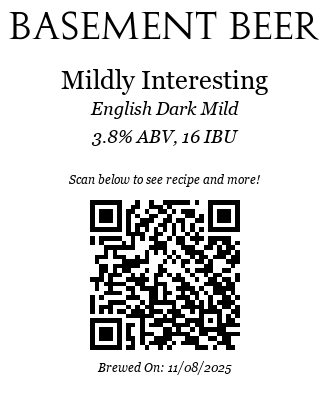
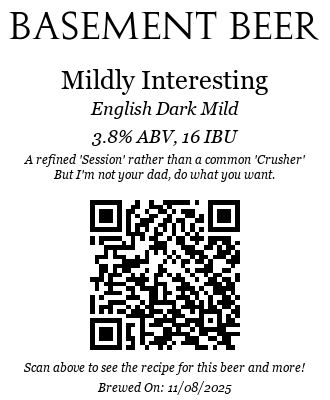
Changed Milds Recipe

Changed region(s): [[0.0606, 0.39, 0.9091, 0.48], [0.0606, 0.9, 0.9394, 0.99], [0.303, 0.96, 0.4848, 0.99]]

diff --git a/qr_code_generator.py b/qr_code_generator.py
@@ -1,7 +1,7 @@
 import qrcode
 from PIL import Image, ImageFont, ImageDraw
 
-def make_label(output_file: str, name: str, style: str, abv: float, ibu: int, guest_recipe: bool = False, brew_date: str = "", url: str = None):
+def make_label(output_file: str, name: str, style: str, abv: float, ibu: int, guest_recipe: bool = False, brew_date: str = "", flavor_text: str = None, url: str = None):
     HEIGHT = 400
     WIDTH = int(HEIGHT * 0.825)
     BLACK= (0, 0, 0)
@@ -32,22 +32,20 @@ def make_label(output_file: str, name: str, style: str, abv: float, ibu: int, gu
     d.text((WIDTH * 0.5, HEIGHT * 0.20), name, fill=BLACK, anchor="mm", align="center", font=tfont)
     d.text((WIDTH * 0.5, HEIGHT * 0.27), style, fill=BLACK, anchor="mm", align="center", font=ifont)
     d.text((WIDTH * 0.5, HEIGHT * 0.34), f"{abv}% ABV, {ibu} IBU", fill=BLACK, anchor="mm", align="center", font=ifont)
-    d.text((WIDTH * 0.5, HEIGHT * 0.92), f"Brewed On: {brew_date}", fill=BLACK, anchor="mm", align="center", font=gfont)
     if guest_recipe:
-        d.text((WIDTH * 0.5, HEIGHT * 0.97), "Note: The recipe for this beer was designed by someone else", fill=BLACK, anchor="mm", align="center", font=gfont)
+        d.text((WIDTH * 0.5, HEIGHT * 0.42), "Note: The recipe for this beer was designed by someone else", fill=BLACK, anchor="mm", align="center", font=gfont)
+    elif flavor_text:
+        d.multiline_text((WIDTH * 0.5, HEIGHT * 0.42), flavor_text, fill=BLACK, anchor="mm", align="center", font=gfont)
+    d.text((WIDTH * 0.5, HEIGHT * 0.97), f"Brewed On: {brew_date}", fill=BLACK, anchor="mm", align="center", font=gfont)
 
     # Write Label
     if url:
-        d.text((WIDTH * 0.5, HEIGHT * 0.45), "Scan below to see recipe and more!", fill=BLACK, anchor="mm", align="center", font=gfont)
+        d.text((WIDTH * 0.5, HEIGHT * 0.92), "Scan above to see the recipe for this beer and more!", fill=BLACK, anchor="mm", align="center", font=gfont)
         lbl.paste(qr, (int((WIDTH / 2.0) - 75), int(HEIGHT * 0.5)))
 
     lbl.save(output_file)
 
-make_label("mild.png", 
-           "Mildly Interesting",
-           "English Dark Mild",
-           3.8,
-           16,
-           False,
-           "11/08/2025",
-           "https://jlisenbee.github.io/LisenbeeCellars/#MildlyInteresting")
+make_label(output_file="mild.png", name="Mildly Interesting", style="English Dark Mild", 
+           abv=3.8, ibu=16, guest_recipe=False, brew_date="11/08/2025",
+           flavor_text="A refined 'Session' rather than a common 'Crusher'\nBut I'm not your dad, do what you want.",
+           url="https://jlisenbee.github.io/LisenbeeCellars/#MildlyInteresting")
